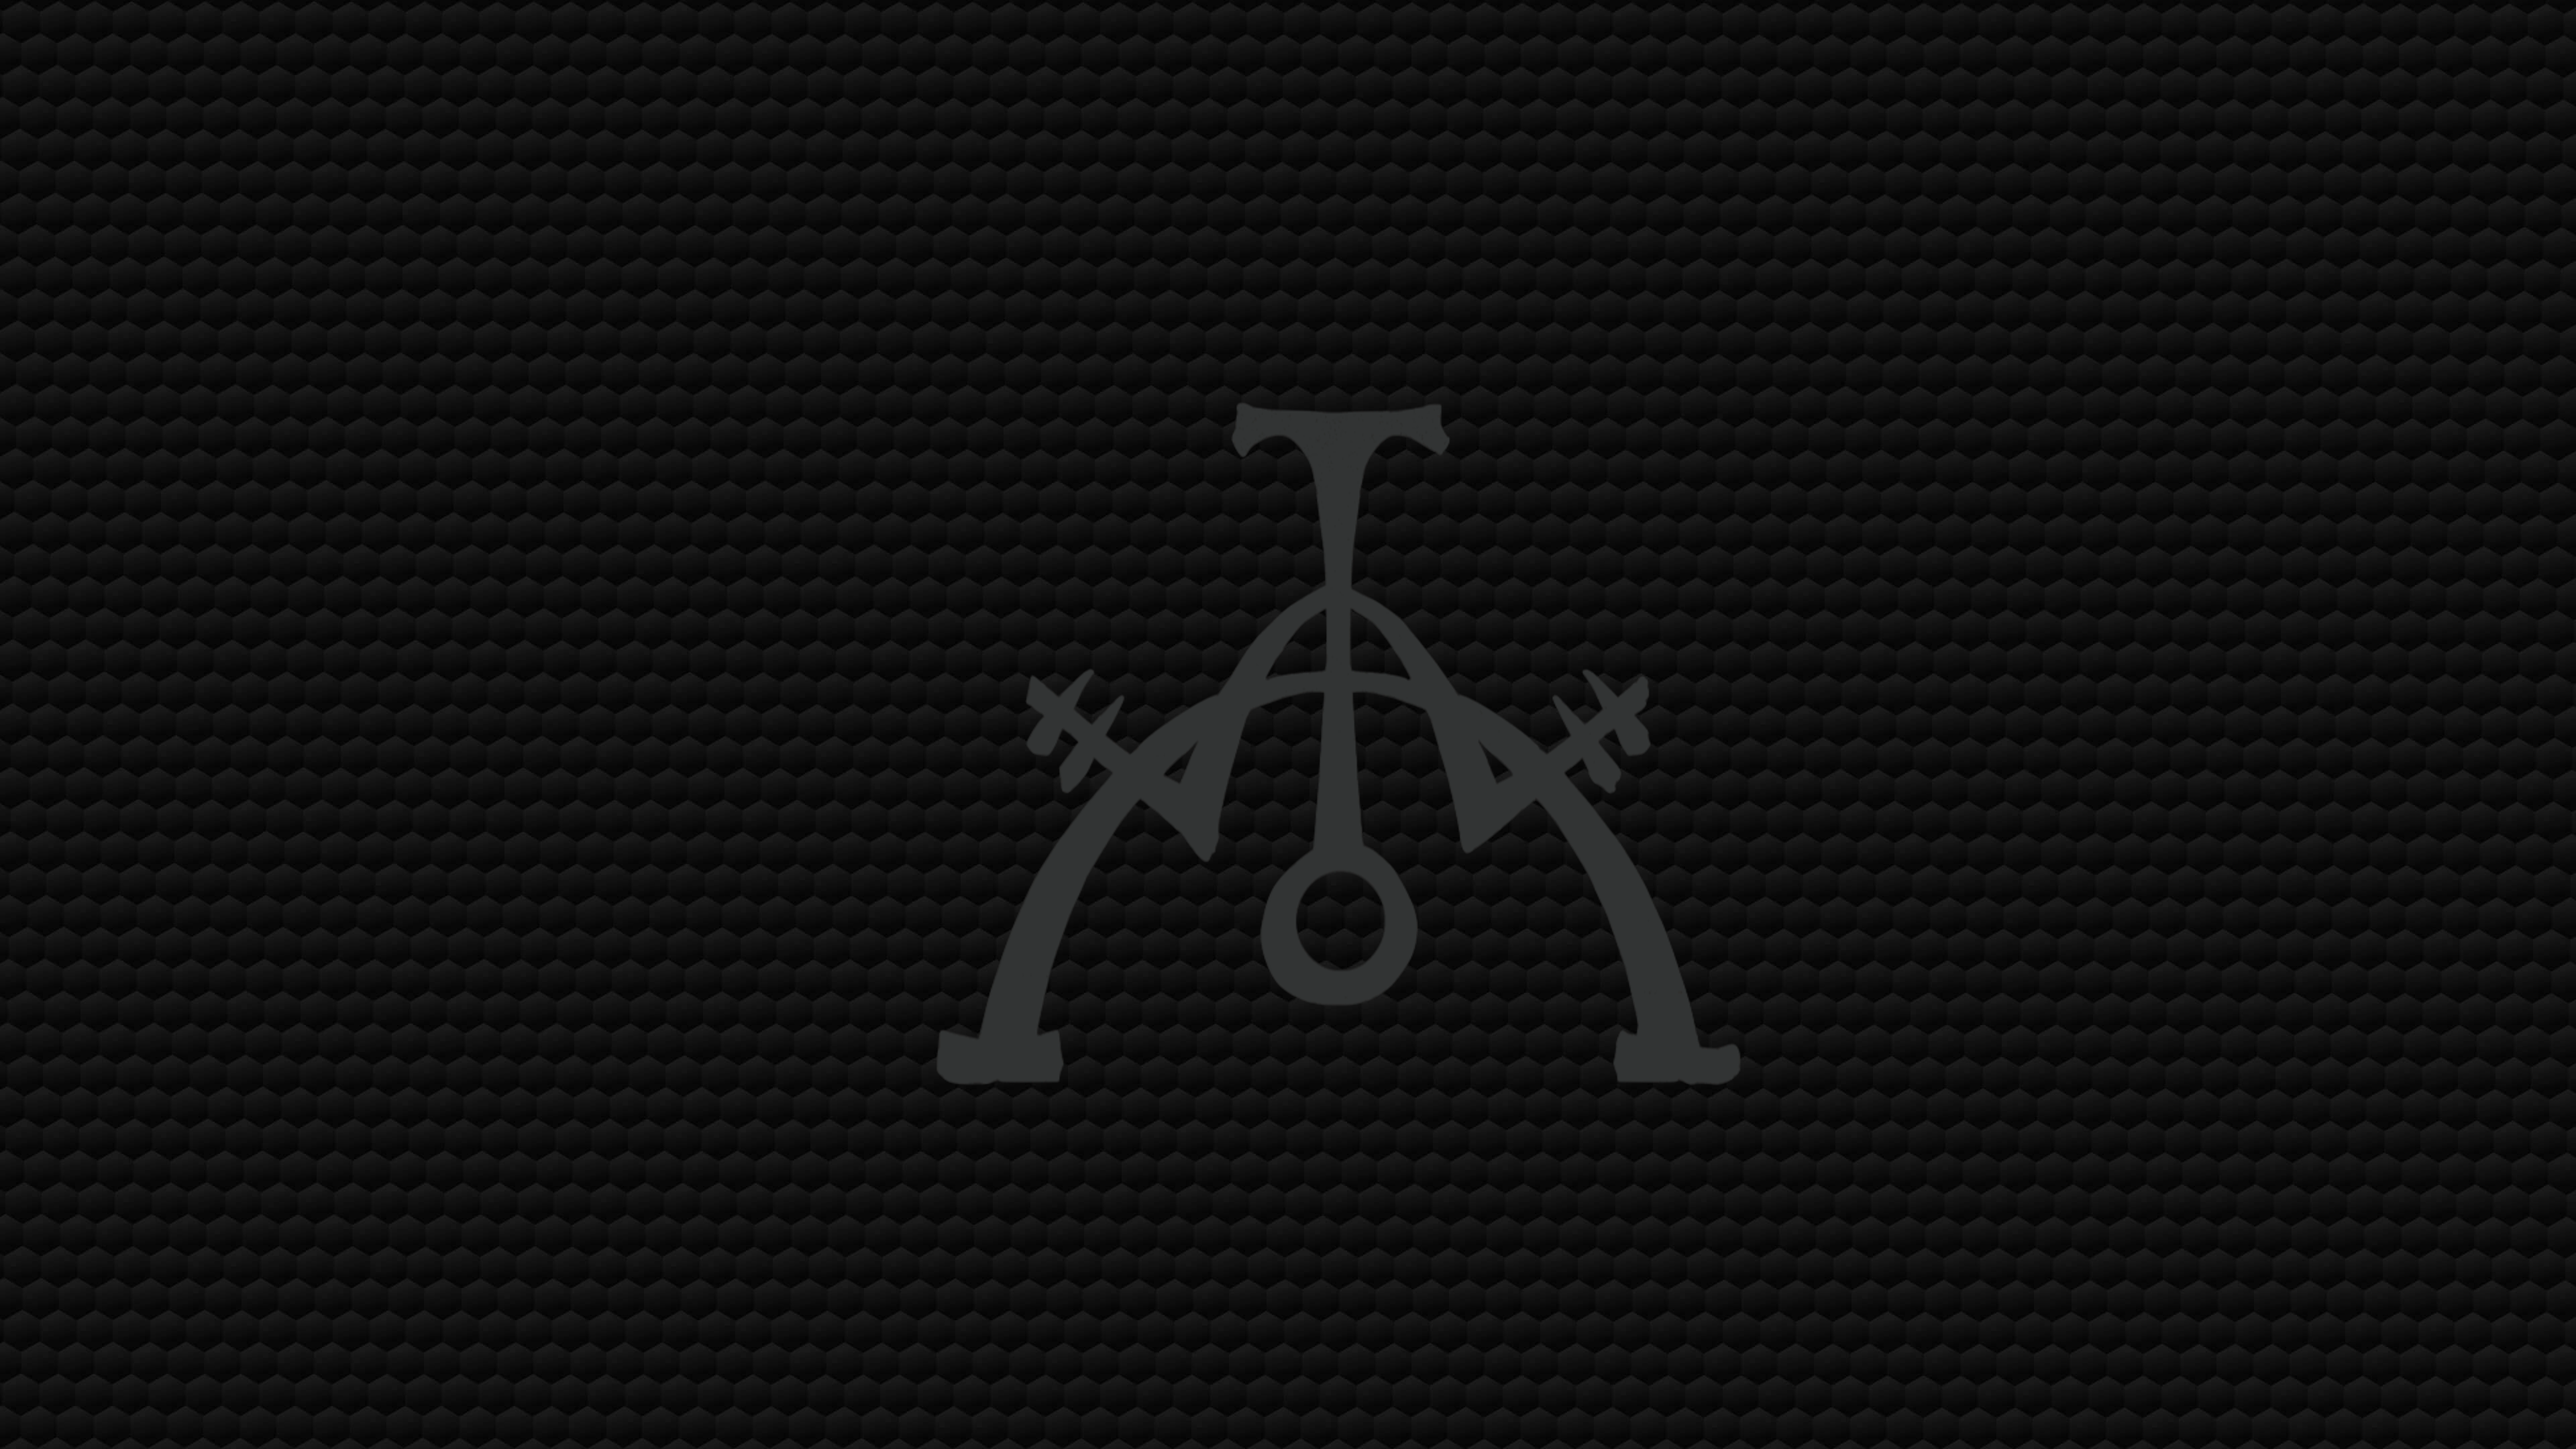
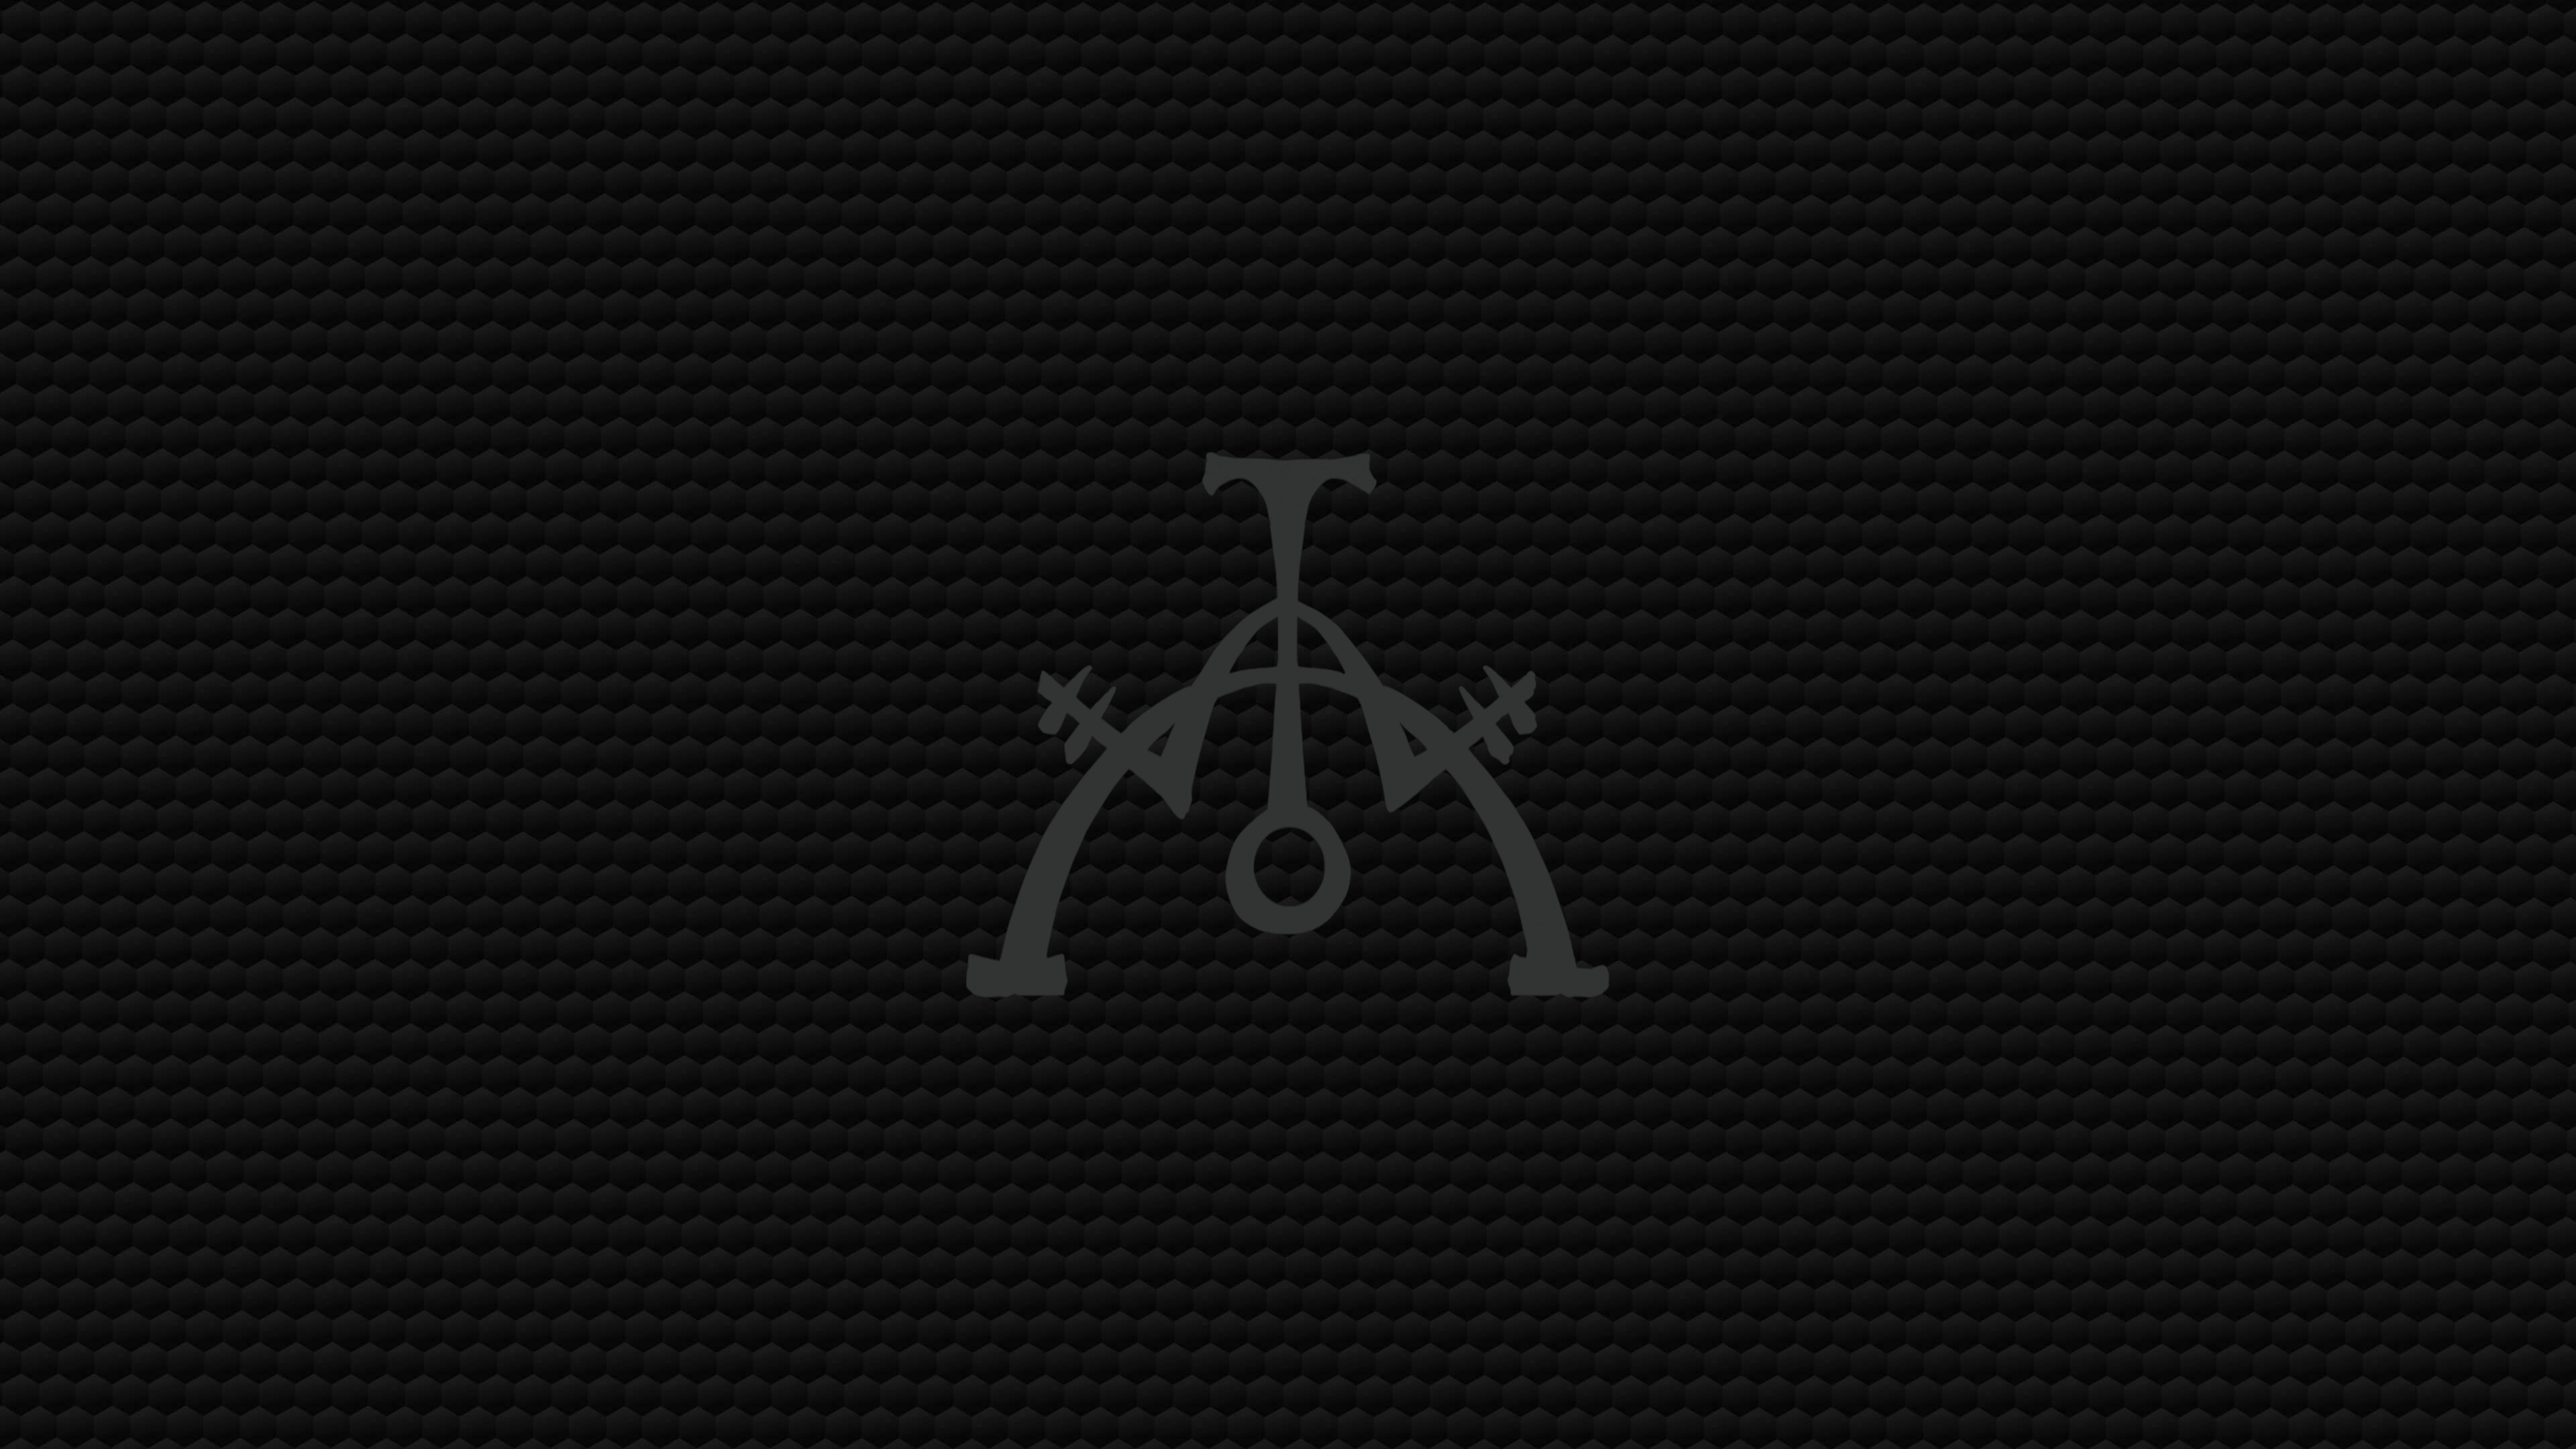
cd front and back

Changed region(s): [[0.3438, 0.2792, 0.6875, 0.7444]]

diff --git a/public_html/index.html b/public_html/index.html
@@ -93,30 +93,39 @@ and open the template in the editor.
     <div class="container-fluid">
         <div class="row">
             <div class="col-xxs-12 col-xs-6 col-sm-6 col-med-6 col-lg-6">
-                <img src="img/native-alien/album-cover1.jpg" class="img-responsive" alt="Album Cover">
+                <img src="img/native-alien/front-cover.png" class="img-responsive" alt="Album Cover">
             </div>
-            <!-- bandcamp player -->
-            <div class="col-xxs-12 col-xs-6 col-sm-6 col-md-6 col-lg-6">
-                <iframe class="img-responsive" style="border: 0; width: 700px; height: 340px;" src="https://bandcamp.com/EmbeddedPlayer/album=1611461146/size=large/bgcol=333333/linkcol=e32c14/artwork=none/transparent=true/" seamless><a href="http://subetroth.bandcamp.com/album/native-alien">Native Alien by SUBETROTH</a></iframe>
+
+            <div class="col-xxs-12 col-xs-6 col-sm-6 col-med-6 col-lg-6">
+                <img src="img/native-alien/back-cover.png" class="img-responsive" alt="Album Cover">
             </div>
         </div>
     </div>
+
+        <!-- bandcamp player -->
+        <div class="container-fluid">
+            <div class="row">
+                <div class="col-xxs-12 col-xs-offset-3 col-xs-6 col-sm-offset-3 col-sm-6 col-md-offset-3 col-md-6 col-lg-offset-3 col-lg-6">
+                    <iframe class="img-responsive" style="border: 0; width: 700px; height: 340px;" src="https://bandcamp.com/EmbeddedPlayer/album=1611461146/size=large/bgcol=333333/linkcol=e32c14/artwork=none/transparent=true/" seamless><a href="http://subetroth.bandcamp.com/album/native-alien">Native Alien by SUBETROTH</a></iframe>
+                </div>
+            </div>
+        </div>
 
     <!-- Download badges -->
     <div class="container-fluid">
         <div class="row">
             <div class="list-group">
-                <div class="col-xs-4 col-sm-offset-3 col-sm-2 col-md-offset-3 col-md-2 col-lg-2 col-lg-offset-3">
+                <div class="col-xxs-4 col-xs-offset-3 col-xs-2 col-sm-offset-3 col-sm-2 col-md-offset-3 col-md-2 col-lg-offset-3 col-lg-2">
                     <a href="http://hyperurl.co/cplq6c" class="list-group-item" target="_blank">
                         <i class="fa fa-apple fa-2x" aria-hidden="true" style="color: whitesmoke;"></i>itunes</a>
                 </div>
 
-                <div class="col-xs-4 col-sm-2 col-md-2 col-lg-2">
+                <div class="col-xxs-4 col-xs-2 col-sm-2 col-md-2 col-lg-2">
                     <a href="http://hyperurl.co/1qcfl6" class="list-group-item" target="_blank">
                         <i class="fa fa-amazon fa-2x" aria-hidden="true" style="color: #ff9900;"></i>amazon</a>
                 </div>
 
-                <div class="col-xs-4 col-sm-2 col-md-2 col-lg-2">
+                <div class="col-xxs-4 col-xs-2 col-sm-2 col-md-2 col-lg-2">
                     <a href="http://hyperurl.co/mb95g4" class="list-group-item" target="_blank">
                         <i class="fa fa-google fa-2x" aria-hidden="true" style="color: #34a853;"></i>google play</a>
                 </div>
@@ -387,10 +396,7 @@ Come at us dude, you’ll get your ass wrecked.
                     </div>
                 </div>
             </div>
-            <!--<div class="col-xs-4 col-sm-4 col-md-4 col-lg-6">-->
-                <!--<img src="img/native-alien/symbol-2.png" class="img-responsive" alt="alien symbol art" width="400" height="auto"-->
-                 <!--style="margin: 0 auto 0 auto">-->
-            <!--</div>-->
+
         </div>
     </div>
     <!-- youtube video -->

diff --git a/public_html/css/native-alien.css b/public_html/css/native-alien.css
@@ -23,17 +23,8 @@ body {
     margin-right: -12px;
     margin-left: -12px;
     padding: 5px;
+    color: white;
 }
-/*h1 {*/
-    /*font-family: neutronium, serif;*/
-    /*letter-spacing: 3px;*/
-    /*color: black;*/
-    /*text-shadow: 1px 1px 5px blue;*/
-    /*font-size: 375%;*/
-    /*margin-top: 0;*/
-/*}*/
-
-
 
 .panel-body {
     background: rgba(122, 130, 136, 0.2) !important;
@@ -99,7 +90,7 @@ blockquote {
         width: 100%;
         height: 100%;
         z-index: -10;
-        background: url("background.png") no-repeat center center;
+        background: url("background.jpg") no-repeat center center;
         -webkit-background-size: cover;
         -moz-background-size: cover;
         -o-background-size: cover;
@@ -112,19 +103,18 @@ blockquote {
 }
 
 @media (max-width: 544px) and (orientation: portrait) {
-    /* Set album art on top of band camp player for small devices in portrait mode. This overrides .col-sm */
+    /* Set album cover art on top of back cover art for small devices in portrait mode. */
     .col-xxs-12 {
         width: 100%;
         height: auto;
+        margin: 0;
+    }
+    .col-xxs-4 {
+        width: 33.3333%;
+        height: auto;
+        margin: 0;
     }
 }
-
-/*@media (max-width: 768px) and (orientation: landscape) {*/
-    /*.list-group .list-group-item {*/
-        /*width: 100%;*/
-        /*height: auto;*/
-    /*}*/
-/*}*/
 
 @media (min-width: 768px), (min-width: 992px) {
     body:before {
@@ -136,7 +126,7 @@ blockquote {
         width: 100%;
         height: 100%;
         z-index: -10;
-        background: url("background-2.png") no-repeat center center;
+        background: url("background-2.jpg") no-repeat center center;
         -webkit-background-size: cover;
         -moz-background-size: cover;
         -o-background-size: cover;
@@ -165,19 +155,18 @@ blockquote {
         width: 100%;
         height: 100%;
         z-index: -10;
-        background: url("red.jpg") no-repeat center center;
+        background: url("background-2.jpg") no-repeat center center;
         -webkit-background-size: cover;
         -moz-background-size: cover;
         -o-background-size: cover;
         background-size: cover;
     }
-    #content-background {
-        background: fixed;
-        background-size: contain;
-        background-repeat: repeat;
-        background-image: url("background-2.png");
-        /*background-color: black;*/
-    }
+    /*#content-background {*/
+        /*background: fixed;*/
+        /*background-size: contain;*/
+        /*background-repeat: repeat;*/
+        /*background-image: url("background-2.jpg");*/
+    /*}*/
     .parallax {
         background-size: 42%;
         height: 9%;

diff --git a/public_html/css/core.css b/public_html/css/core.css
@@ -12,6 +12,11 @@ and open the template in the editor.
 @font-face { font-family: neutronium; src: url('fonts/neutronium.ttf'); }
 
 /*	NAVIGATION BAR	*/
+
+.navbar {
+    margin: 0;
+}
+
 #logo {
     position: absolute;
     margin-top: 5px;
@@ -146,11 +151,9 @@ and open the template in the editor.
     text-shadow: -3px -2px 30px white;
 }
 
-.navbar-fixed-bottom p {
-	font-style: italic;
-	font-size: medium;
+.navbar-bottom {
+    background: rgba(122, 130, 136, 0.2)!important;
+    border-color: transparent;
 }
 
-.navbar {
-    margin: 0;
-}
+
